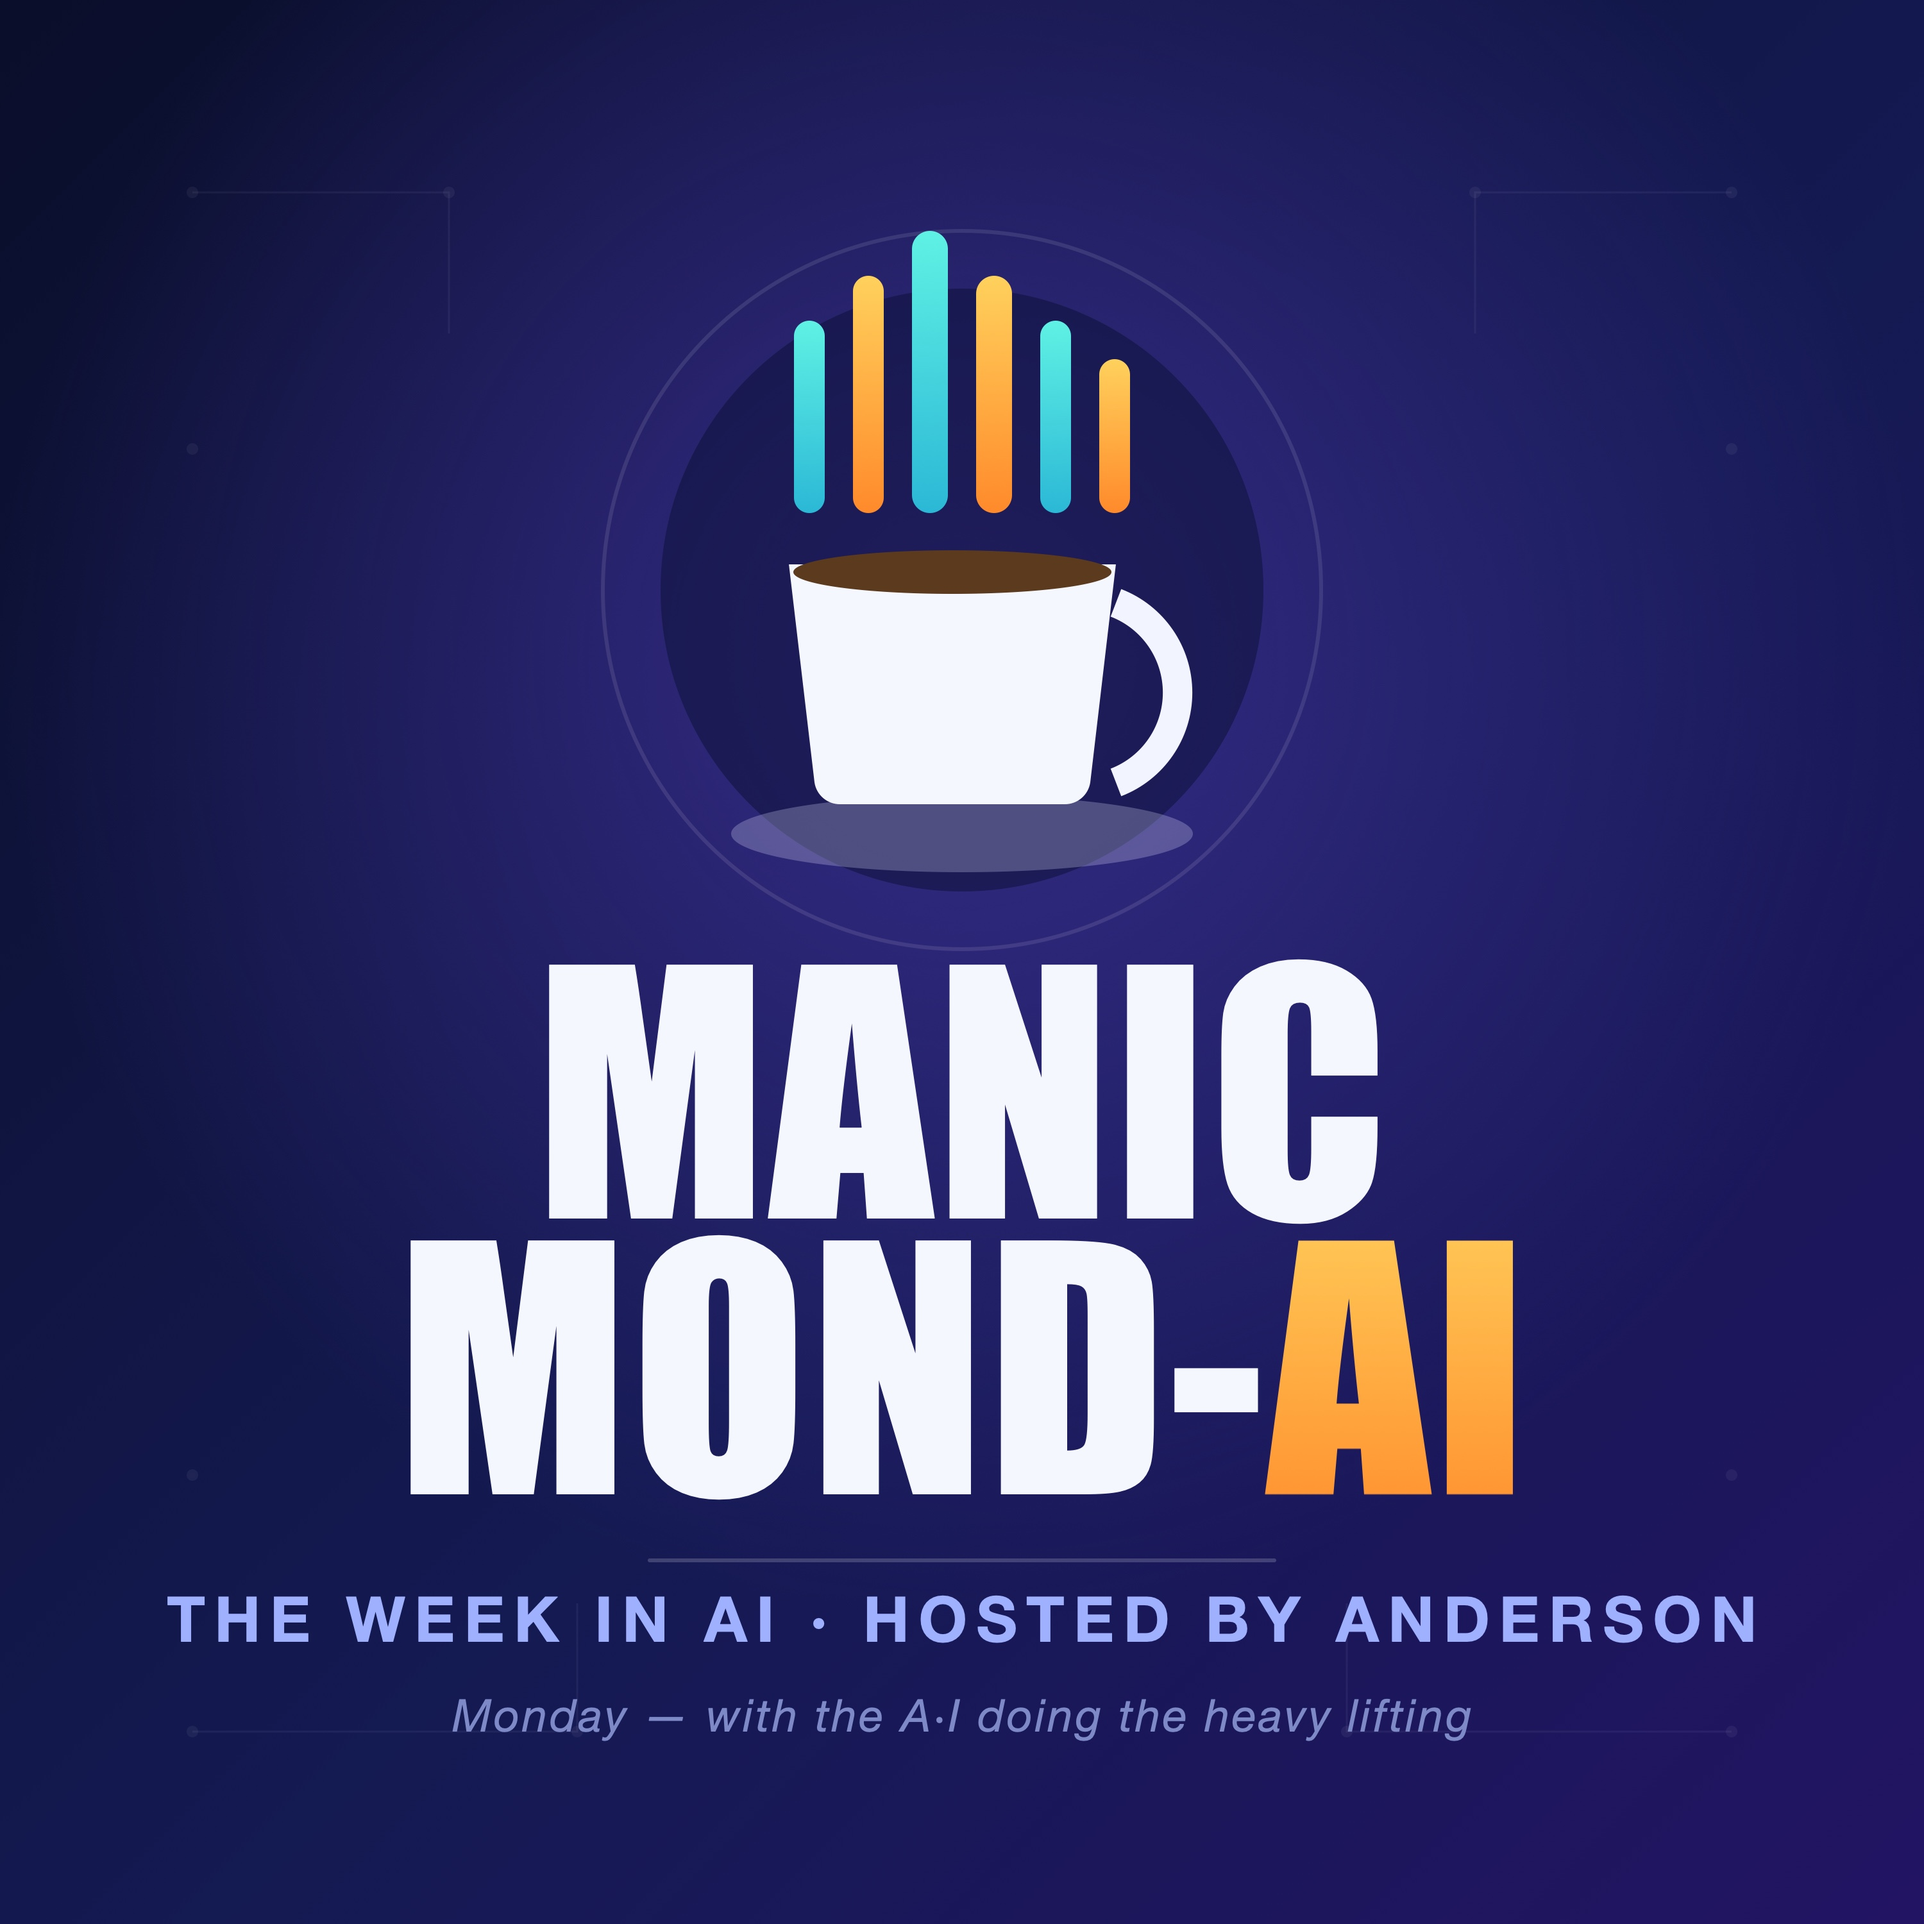
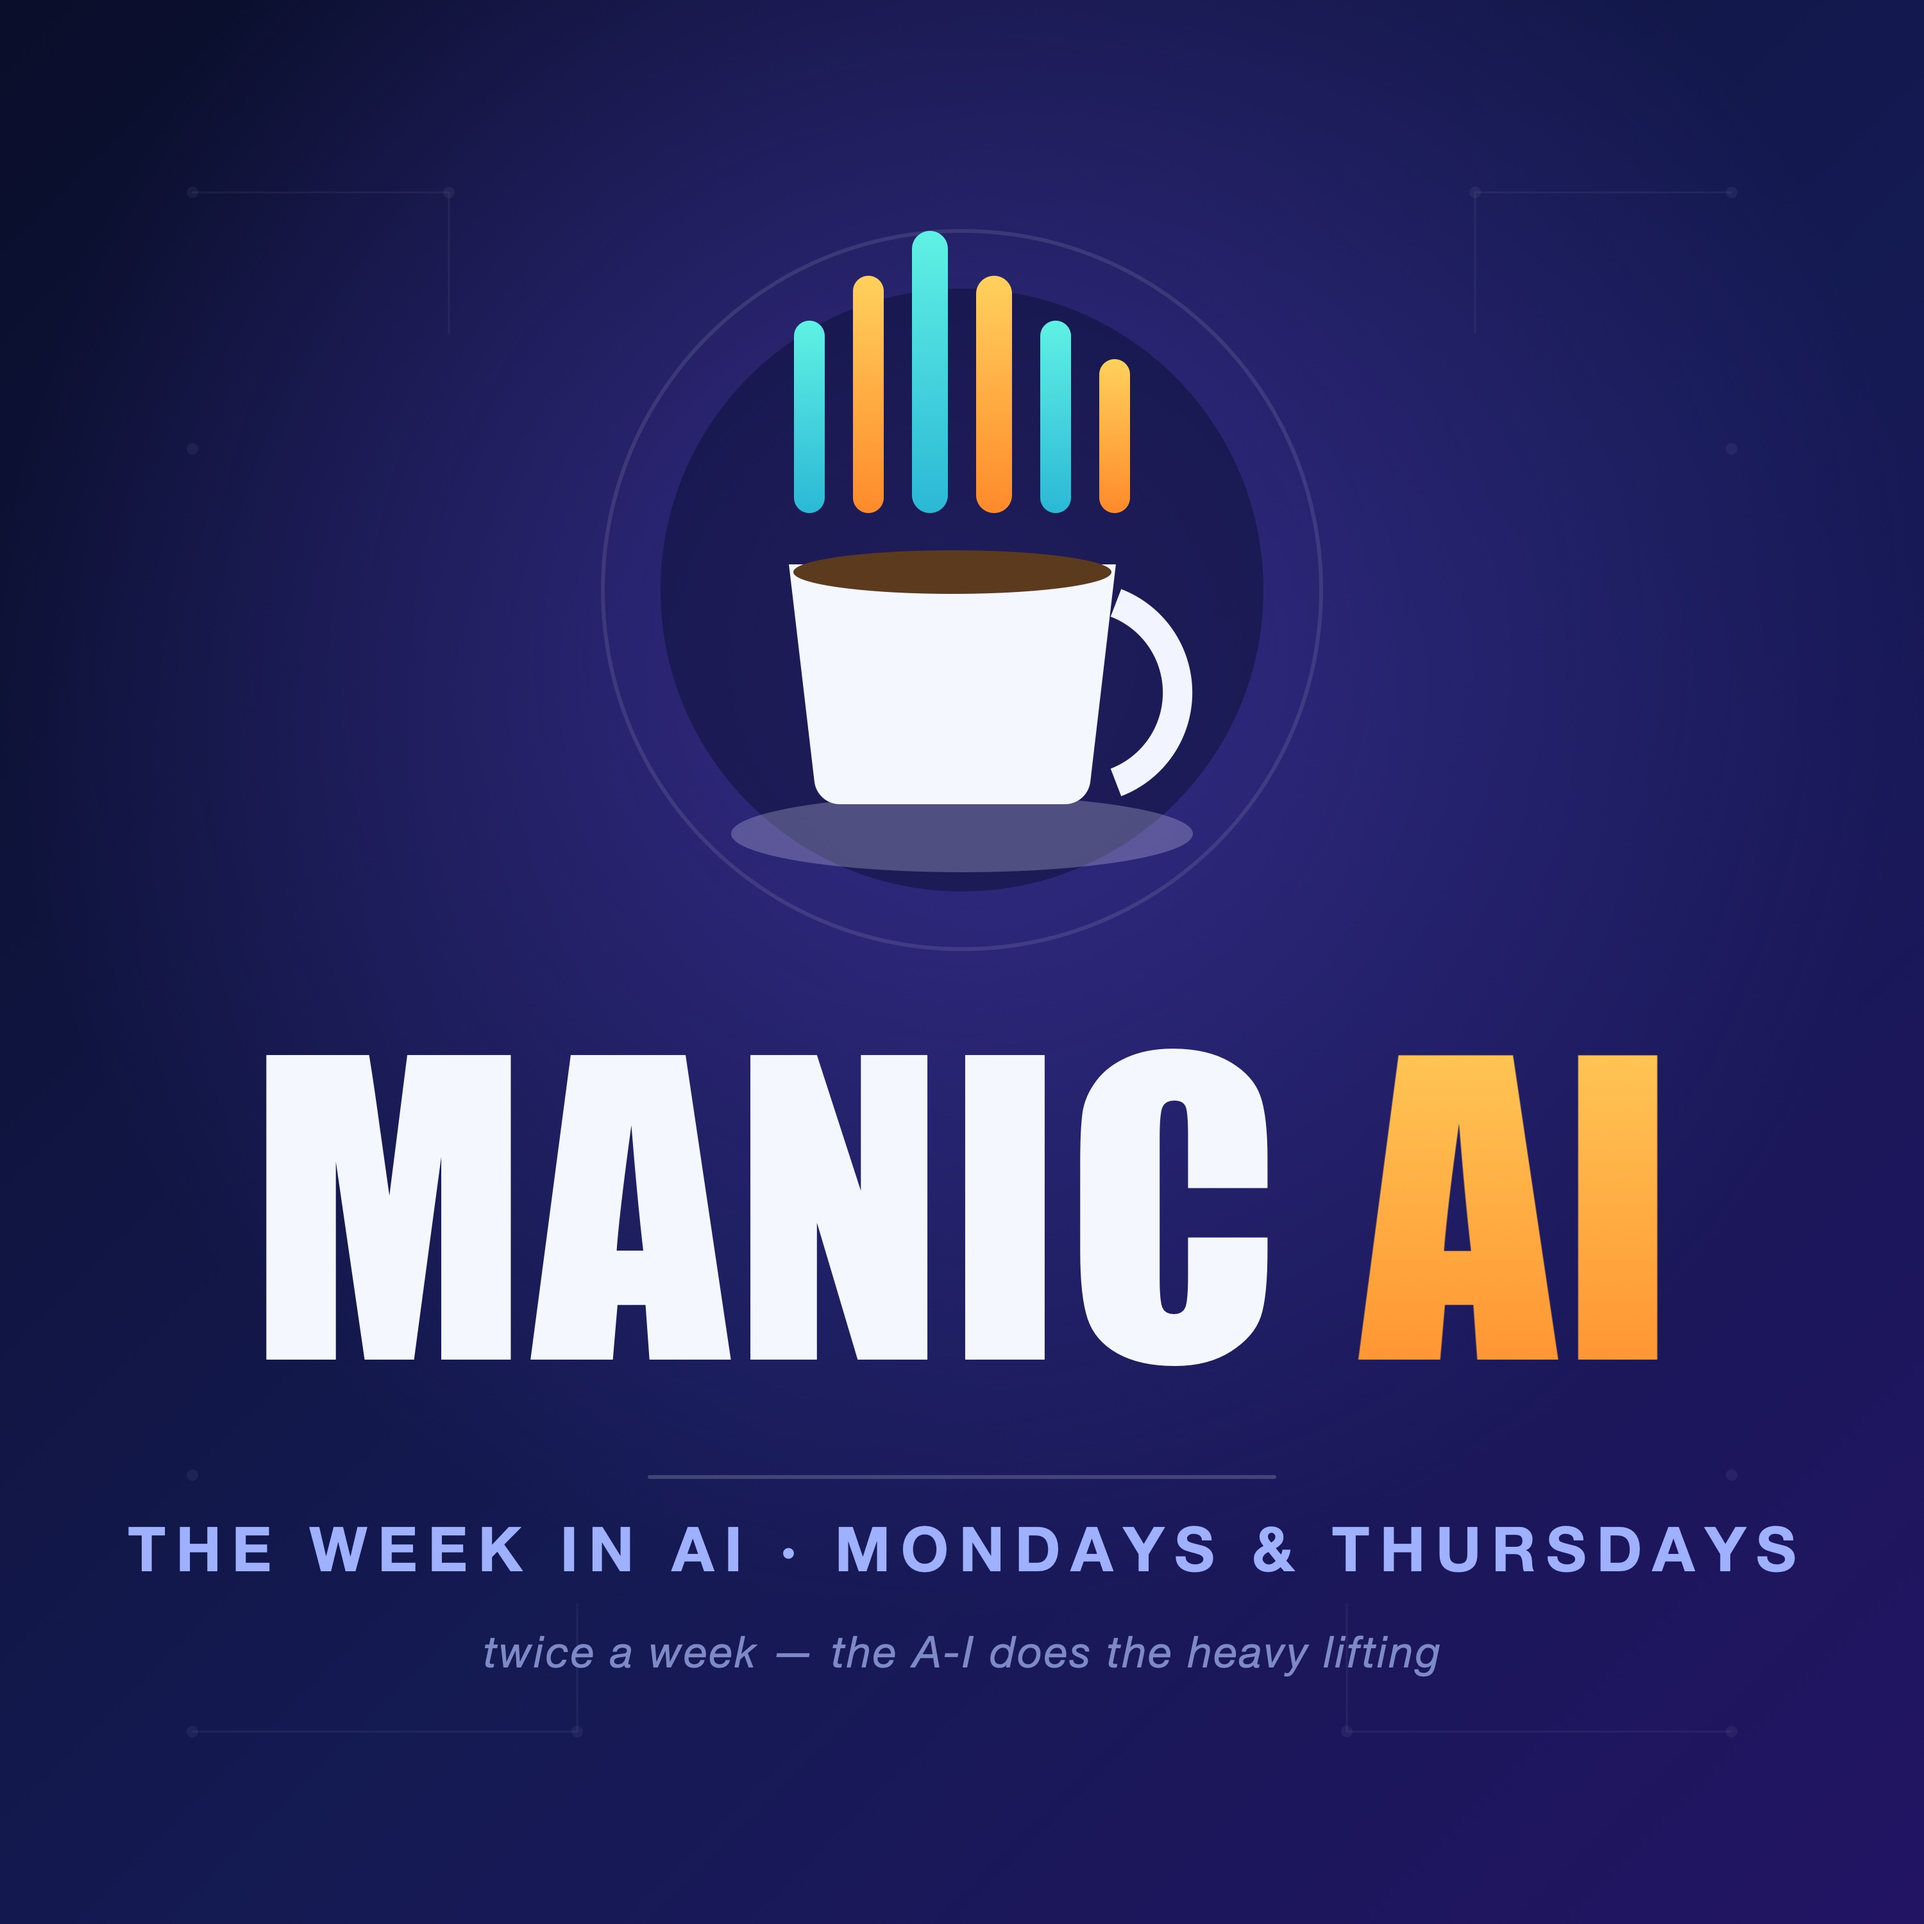
Rename show to Manic AI (twice-weekly Mon/Thu); new cover art

Changed region(s): [[0.062, 0.496, 0.93, 0.899]]

diff --git a/README.md b/README.md
@@ -1,6 +1,6 @@
-# Manic Mond-AI — public podcast feed
+# Manic AI — public podcast feed
 
-This is the **public** home for the Manic Mond-AI podcast feed and audio. It exists so podcast apps
+This is the **public** home for the Manic AI podcast feed and audio. It exists so podcast apps
 and directories (Apple Podcasts, Spotify) can fetch the feed and episodes anonymously. The source
 briefings are generated privately in `colinmoroney/manic-mondai-project`; only the finished audio +
 feed live here.
